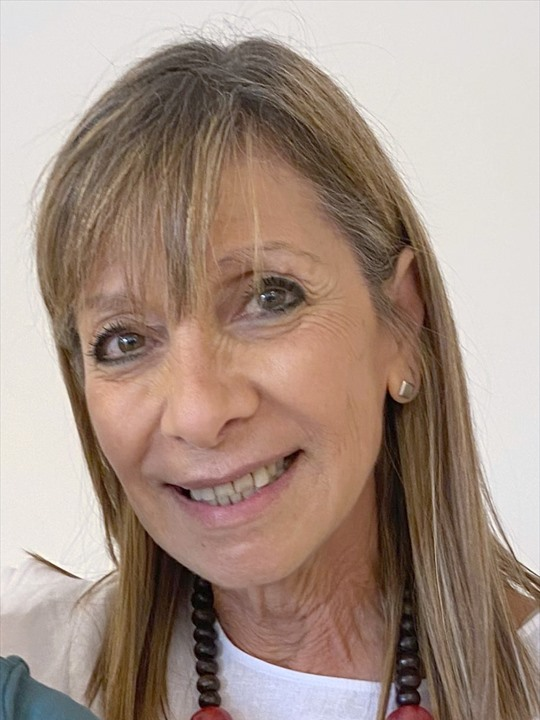
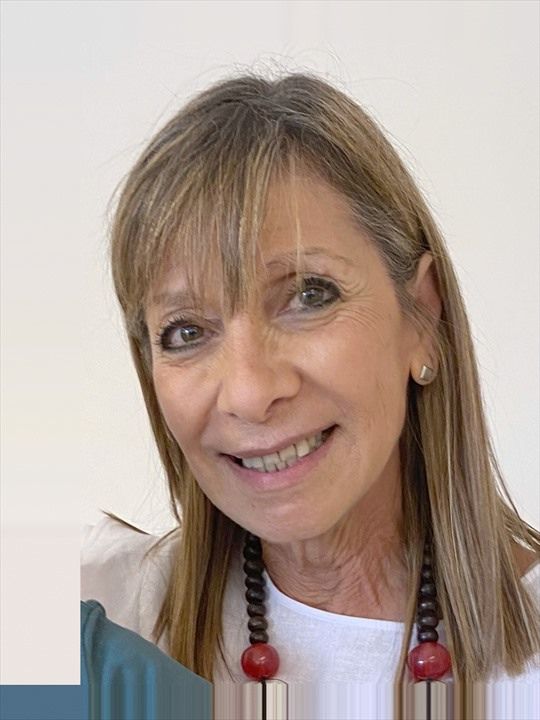
Foto de la Lic. Pecora más abierta, con la cara entera
- La original era muy cerrada: se extendió solo la pared lisa del fondo, arriba y a la izquierda, para encuadrarla como
  a las demás. La cara, el pelo y la ropa no se tocaron.

diff --git a/index.html b/index.html
@@ -179,7 +179,7 @@
             </article>
             <article>
               <div class="eq__b">
-                <span class="eq__foto"><img src="assets/img/retrato-pecora.jpg" alt="" loading="lazy"></span>
+                <span class="eq__foto"><img src="assets/img/retrato-pecora.jpg?v=2" alt="" loading="lazy"></span>
                 <span class="eq__n">Lic. Mirtha Pecora</span>
                 <span class="eq__r">Audiología · Estudios auditivos</span>
               </div>
